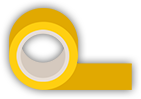
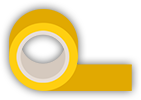
routing

diff --git a/css/style.css b/css/style.css
@@ -870,7 +870,7 @@ ul.tools li#btn-scotch {
 	background-size: 100%;
 	background-position: 50% 50%;
 	width: 141px;
-	height: 99px;
+	height: 100px;
 	margin: -10px auto 0;
 }
 
